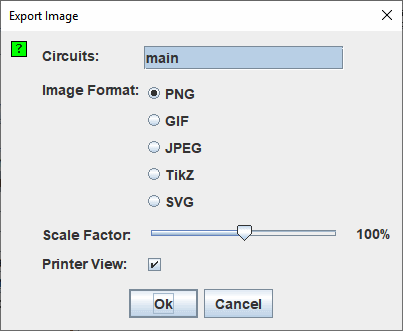
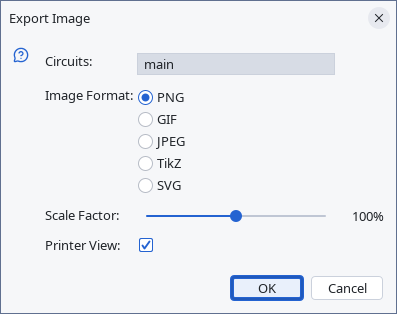
Theme appearance ink and tidy the welcome status bar
Custom appearances follow the canvas theme, the welcome screen hides
stale status text, selection headers read naturally and the printing
help screenshots are current.
Claude-Session: https://claude.ai/code/session_01NzSWiucb5DfBHpydXLnWwC

diff --git a/src/test/java/com/cburch/logisim/gui/canvas/CanvasStyleTest.java b/src/test/java/com/cburch/logisim/gui/canvas/CanvasStyleTest.java
@@ -15,6 +15,7 @@ import static org.junit.jupiter.api.Assertions.assertTrue;
 
 import com.cburch.logisim.circuit.Wire;
 import java.awt.BasicStroke;
+import java.awt.Color;
 import org.junit.jupiter.api.Test;
 
 /** The drawing style, and in particular the promise it makes about printing. */
@@ -95,5 +96,23 @@ class CanvasStyleTest {
   @Test
   void busIsClearlyHeavierThanWire() {
     assertTrue(Wire.WIDTH_BUS - Wire.WIDTH >= 2, "bus " + Wire.WIDTH_BUS + " vs " + Wire.WIDTH);
+  }
+
+  /**
+   * Appearance-editor shapes and their text (drawn with {@code com.cburch.draw}'s generic
+   * primitives) are shipped in plain black, same as document text: it is a placeholder, not a
+   * choice, so it resolves to the same theme- and print-aware ink rather than staying invisible
+   * on a dark canvas.
+   */
+  @Test
+  void shippedBlackShapeInkResolvesToComponentColor() {
+    assertEquals(CanvasStyle.componentColor(), CanvasStyle.textColor(Color.BLACK));
+  }
+
+  /** A colour the user actually picked for a shape or its label is never second-guessed. */
+  @Test
+  void customShapeInkIsPaintedAsChosen() {
+    final var chosen = new Color(0x00FF7F);
+    assertEquals(chosen, CanvasStyle.textColor(chosen));
   }
 }

diff --git a/src/main/java/com/cburch/draw/model/AbstractCanvasObject.java b/src/main/java/com/cburch/draw/model/AbstractCanvasObject.java
@@ -16,6 +16,7 @@ import com.cburch.logisim.data.AttributeListener;
 import com.cburch.logisim.data.AttributeSet;
 import com.cburch.logisim.data.Bounds;
 import com.cburch.logisim.data.Location;
+import com.cburch.logisim.gui.canvas.CanvasStyle;
 import com.cburch.logisim.util.EventSourceWeakSupport;
 import com.cburch.logisim.util.GraphicsUtil;
 import java.awt.Graphics;
@@ -201,7 +202,11 @@ public abstract class AbstractCanvasObject implements AttributeSet, CanvasObject
         return false;
       } else {
         GraphicsUtil.switchToWidth(g, width);
-        if (color != null) g.setColor(color);
+        // The shipped black stroke is a placeholder, not a choice: resolve it to the canvas ink
+        // (theme-aware on screen, print palette when exporting or printing) so an appearance
+        // shape drawn without an explicit colour stays visible on a dark canvas. A colour the
+        // user actually picked is painted exactly as stored.
+        if (color != null) g.setColor(CanvasStyle.textColor(color));
         return true;
       }
     } else {

diff --git a/src/main/java/com/cburch/draw/util/EditableLabel.java b/src/main/java/com/cburch/draw/util/EditableLabel.java
@@ -10,6 +10,7 @@
 package com.cburch.draw.util;
 
 import com.cburch.logisim.data.Bounds;
+import com.cburch.logisim.gui.canvas.CanvasStyle;
 
 import java.awt.Color;
 import java.awt.Font;
@@ -239,7 +240,11 @@ public class EditableLabel implements Cloneable {
 
   public void paint(Graphics g) {
     g.setFont(font);
-    g.setColor(color);
+    // The shipped black is a placeholder, not a chosen colour: resolve it to the canvas ink so
+    // an appearance-editor label (a shape's text, or a pin-name label) stays visible on a dark
+    // canvas, while honouring the print palette for export and printing. A colour the user
+    // actually picked is painted exactly as stored.
+    g.setColor(CanvasStyle.textColor(color));
     computeDimensions(g);
     float x0 = getLeftX();
     float y0 = getBaseY();

diff --git a/src/main/java/com/cburch/logisim/gui/shell/StatusBar.java b/src/main/java/com/cburch/logisim/gui/shell/StatusBar.java
@@ -114,6 +114,18 @@ public class StatusBar extends JPanel {
   }
 
   /**
+   * Hides the circuit name and zoom reading while the welcome screen is showing.
+   *
+   * <p>Both keep whatever value the last open circuit left behind, since nothing clears them when
+   * a project closes down to the welcome screen. Left alone, that stale "main" and "100%" look
+   * like a live, open document nobody had asked for.
+   */
+  public void setWelcomeMode(boolean on) {
+    circuitLabel.setVisible(!on);
+    zoomButton.setVisible(!on);
+  }
+
+  /**
    * The chain of circuits the user has descended through, each one clickable.
    *
    * <p>Descending into a subcircuit used to show its name and nothing else, identical to what is

diff --git a/src/main/java/com/cburch/logisim/gui/main/AttrTableSelectionModel.java b/src/main/java/com/cburch/logisim/gui/main/AttrTableSelectionModel.java
@@ -175,7 +175,7 @@ class AttrTableSelectionModel extends AttributeSetTableModel implements Selectio
       if (label != null && label.length() > 0) {
         return factory.getDisplayName() + " \"" + label + "\"";
       } else if (loc != null) {
-        return factory.getDisplayName() + " " + loc;
+        return S.get("selectionAtLocation", factory.getDisplayName(), loc.toString());
       } else {
         return factory.getDisplayName();
       }

diff --git a/src/main/java/com/cburch/logisim/gui/shell/ShellLayout.java b/src/main/java/com/cburch/logisim/gui/shell/ShellLayout.java
@@ -509,6 +509,7 @@ public class ShellLayout extends JPanel {
       applyInspectorVisible(inspectorBeforeWelcome, false);
       activityBar.setSelected(isSideVisible() ? sidePanel.activeId() : null);
     }
+    statusBar.setWelcomeMode(on);
   }
 
   public boolean isWelcomeMode() {
